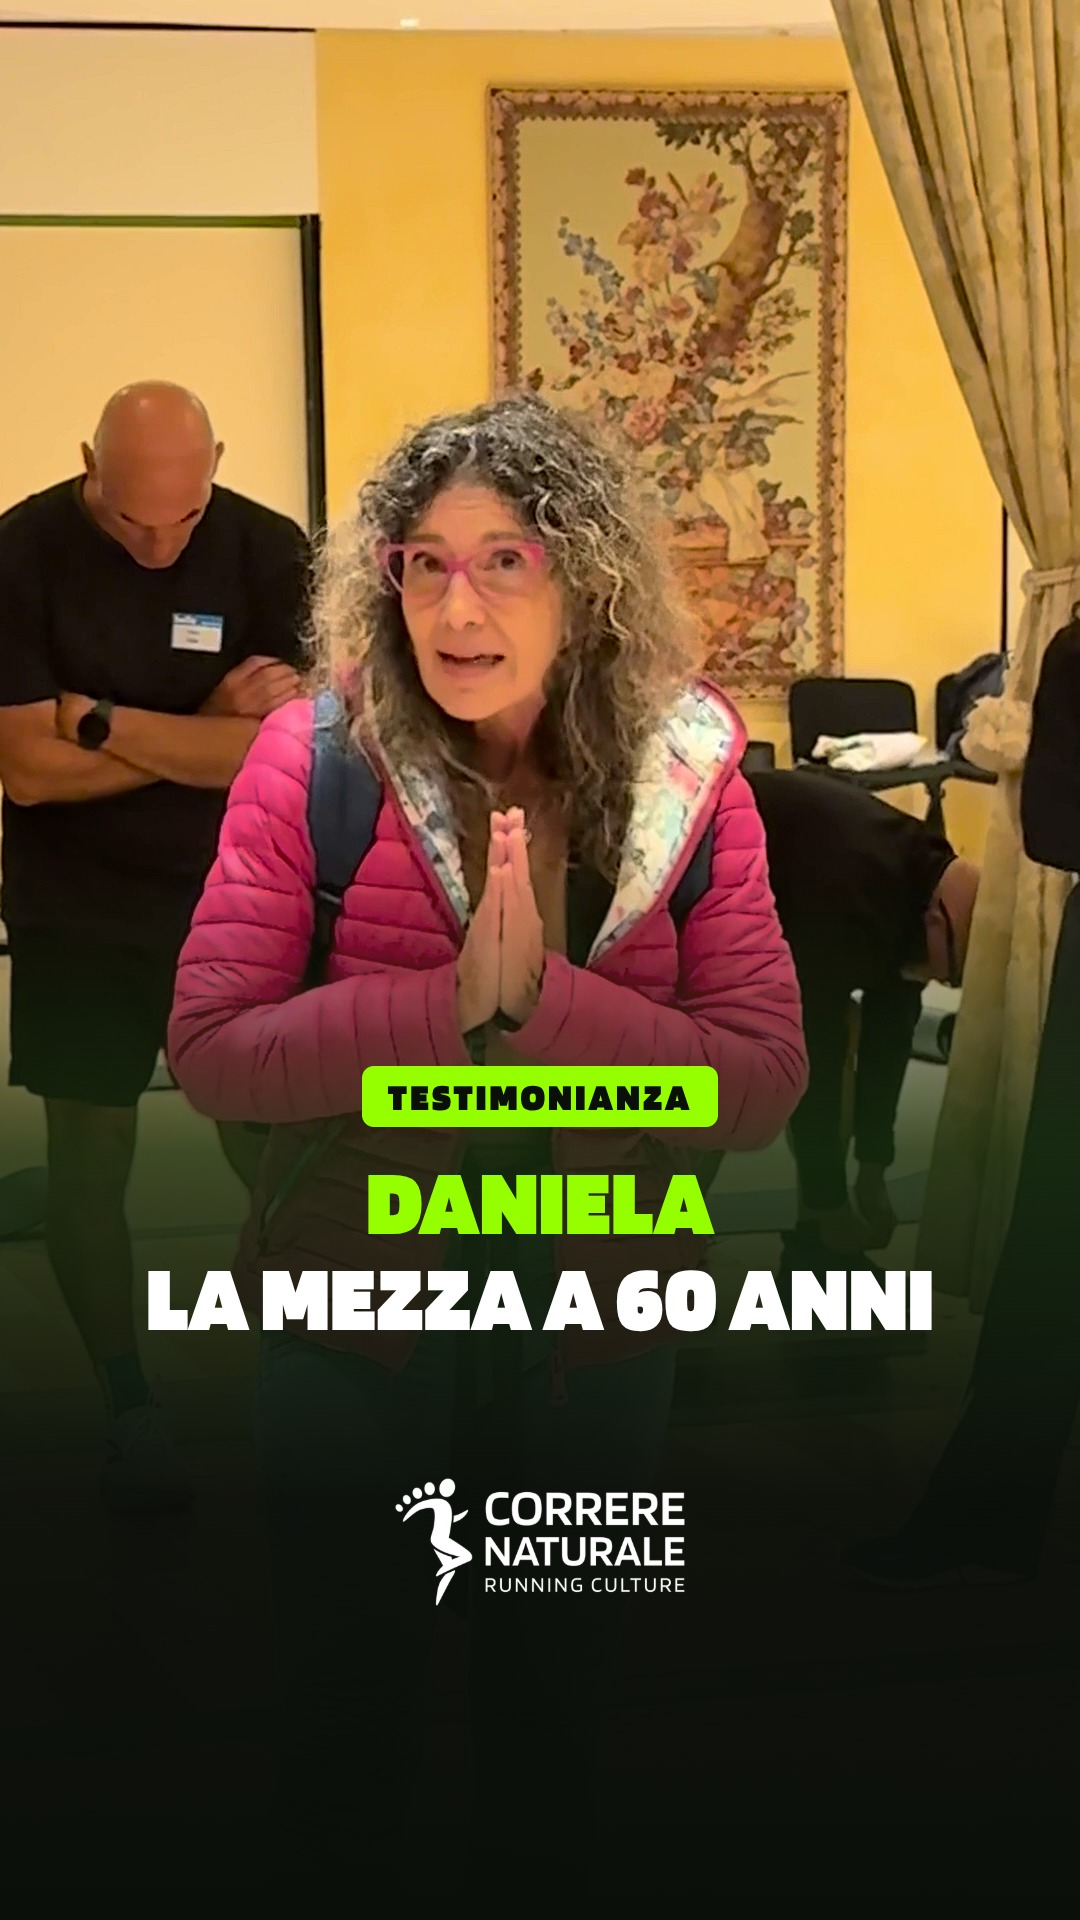
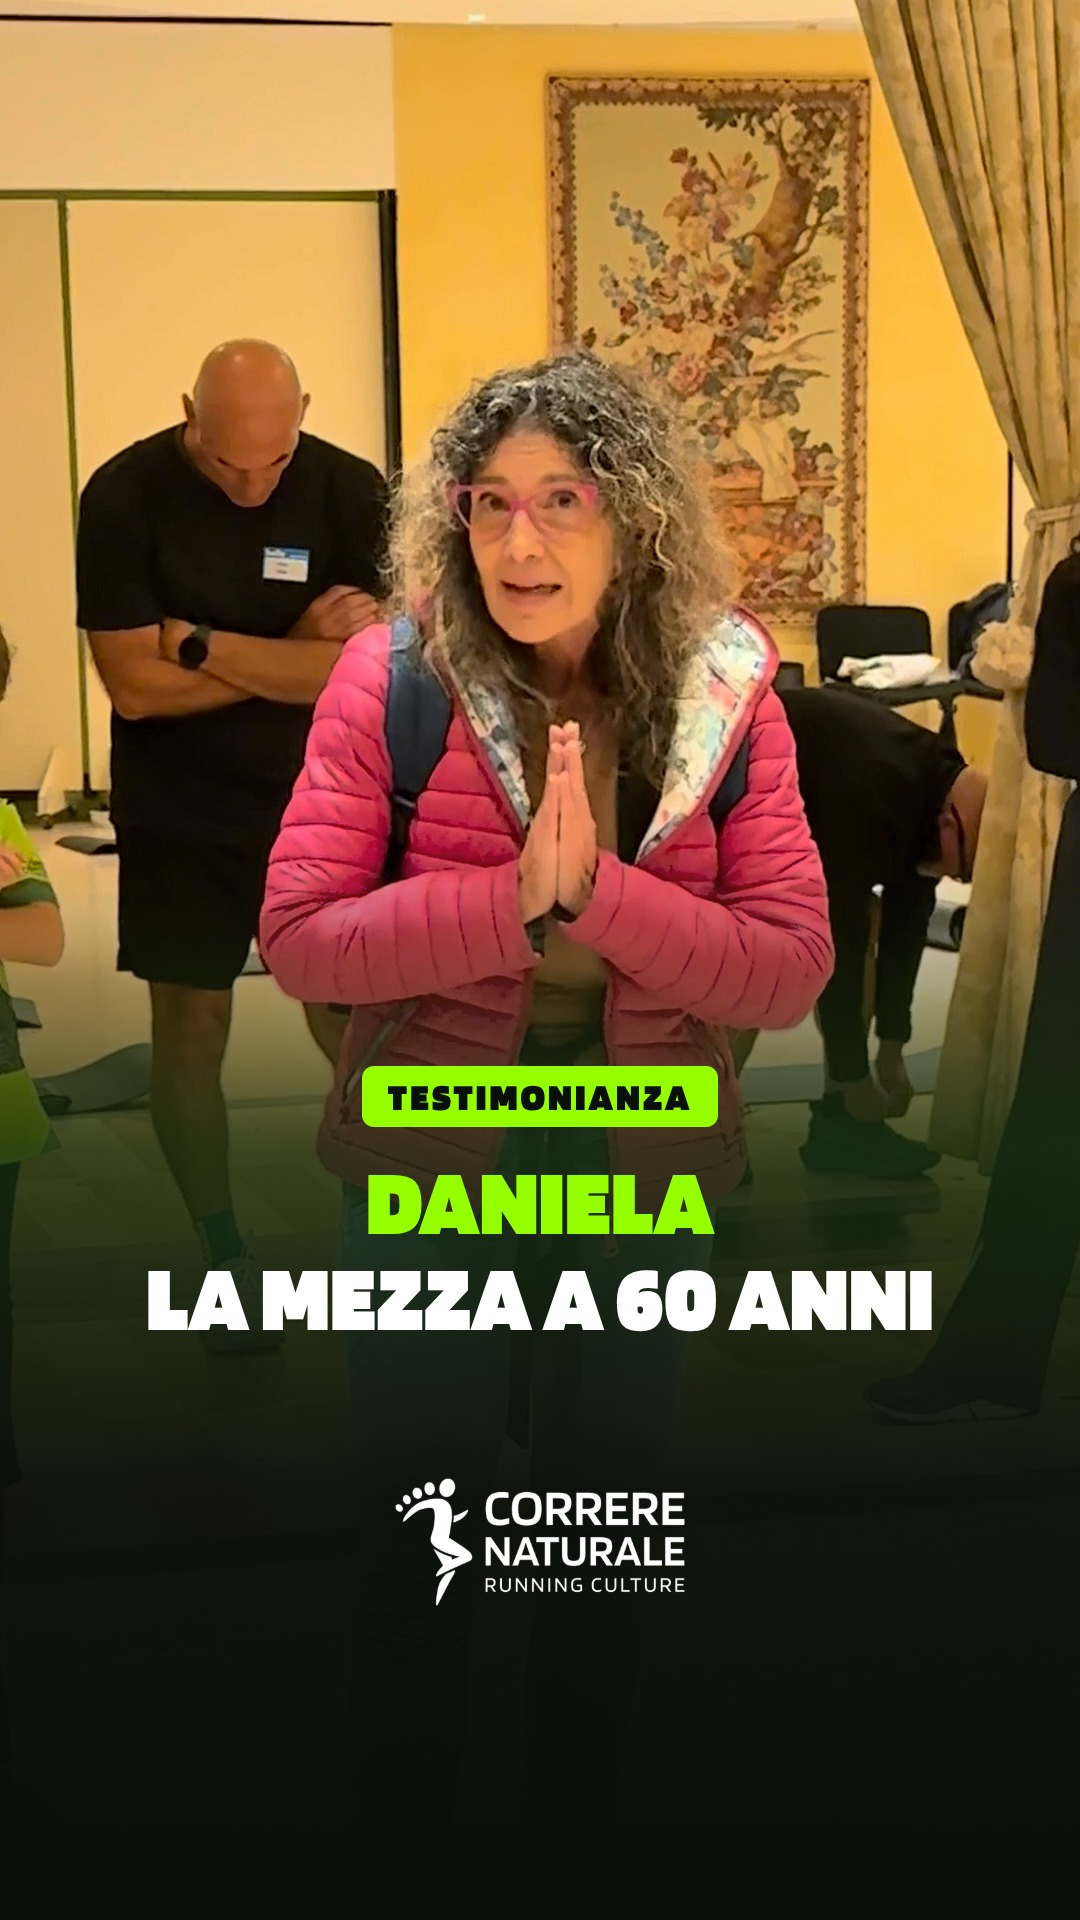
Longevità v solo voce consegnati, Daniela v7; schede e copertina aggiornate
Claude-Session: https://claude.ai/code/session_01HGW3AnbhyvWpc9gyVEKzyj

diff --git a/clienti/correre-naturale/consegne/CLASSIFICA-SETTIMANALE.md b/clienti/correre-naturale/consegne/CLASSIFICA-SETTIMANALE.md
@@ -29,22 +29,22 @@ La corsa non è un test di resistenza: è un dialogo tra te e il tuo corpo, e qu
 
 ## Longevità · «Ho letto 5 studi sulla longevità» (rifatti l'11/11 al livello di YTCN 51 v11)
 
-**L1 ultimi 20 anni · Lunedì Scientifico · CTA PIANO** (v3, 12/11: musica anche sotto la CTA)
+**L1 ultimi 20 anni · Lunedì Scientifico · CTA PIANO** (v4, 14/11: solo voce, senza musica di sottofondo)
 La medicina moderna ci ha regalato 30 anni di vita in più, ma ce li ha messi tutti alla fine. Due numeri definiscono la tua vita: il lifespan, quanti anni vivi, e l'healthspan, quanti anni vivi bene. In Italia l'aspettativa di vita è circa 83 anni, quella in salute si ferma intorno ai 60: in media gli ultimi 20 anni si passano in declino, due decenni in cui il corpo si spegne. La domanda vera non è quanto a lungo vivo, ma a che punto il mio corpo smetterà di funzionare come dovrebbe. Chiusura: non si smette di correre perché si invecchia, si invecchia perché si smette di correre.
 
-**L2 nessun farmaco · Lunedì Scientifico · CTA MOTORE** (v2, 12/11: musica anche sotto la CTA)
+**L2 nessun farmaco · Lunedì Scientifico · CTA MOTORE** (v3, 14/11: solo voce, senza musica di sottofondo)
 Il segnale più potente che esista per la longevità è il movimento aerobico. Una meta-analisi su 100.000 persone sane (Kodama et al., 2009, JAMA): ogni piccolo incremento del motore aerobico abbassa del 13% il rischio di morire per qualsiasi causa e del 15% quello di un evento cardiovascolare; non esiste farmaco al mondo con questo effetto. Quanto serve correre: uno studio americano su oltre 155.000 adulti seguiti per 15 anni (Lee et al., 2014, JACC) dice che bastano meno di 51 minuti a settimana, anche piano, per ridurre del 30% la mortalità per tutte le cause e del 45% quella cardiovascolare. Chiusura: 10 minuti al giorno, non una maratona; è tenere accesa la macchina biologica che sposta l'ago.
 
-**L3 cellule · Martedì Educativo · CTA RINNOVO** (v2, 12/11: musica anche sotto la CTA)
+**L3 cellule · Martedì Educativo · CTA RINNOVO** (v3, 14/11: solo voce, senza musica di sottofondo)
 Cosa succede dentro le tue cellule quando corri. I mitocondri sono le centrali energetiche: trasformano ossigeno e nutrienti in ATP, la moneta con cui il corpo paga ogni battito, ogni pensiero, ogni passo. Quando funzionano bene il corpo si ripara, si rinnova, resta giovane; quando funzionano male il sistema decade: l'invecchiamento non è il tempo che passa, sono le centrali che smettono di fare il loro lavoro. Ma i mitocondri non sono statici, rispondono ai segnali: movimento aerobico, respirazione nasale e intensità controllata ne producono di più e più efficienti, e attivano la mitofagia, che sostituisce quelli vecchi e malfunzionanti con nuovi. Chiusura: è il 90% del valore della corsa che quasi nessuno conosce; ma attento, devi correre bene.
 
-**L4 cervello · Lunedì Scientifico · CTA CAMMINA** (v2, 12/11: musica anche sotto la CTA)
+**L4 cervello · Lunedì Scientifico · CTA CAMMINA** (v3, 14/11: solo voce, senza musica di sottofondo)
 Il cervello si è coevoluto con il movimento: non può funzionare correttamente senza un corpo in movimento. Lo studio (Erickson et al., 2011, PNAS): 120 anziani sedentari, metà ha camminato tre volte a settimana per un anno partendo da 10 minuti fino ad arrivare a 40, l'altra metà ha fatto solo stretching leggero; risonanza magnetica dell'ippocampo prima e dopo. Risultato: in chi ha camminato l'ippocampo è cresciuto del 2%, nel gruppo di controllo è diminuito; chi si è mosso ha fatto tornare indietro l'orologio del cervello. Chiusura: motore, muscoli, tendini e cervello sono i quattro capitoli di un'unica storia, e quando ti muovi correttamente ogni pezzo amplifica gli altri.
 
-**L5 bugia del running · Mercoledì Problem/Solution · CTA TECNICA** (v3, 12/11: musica anche sotto la CTA)
+**L5 bugia del running · Mercoledì Problem/Solution · CTA TECNICA** (v4, 14/11: solo voce, senza musica di sottofondo)
 Il problema: «basta uscire a correre» è la bugia più diffusa nel mondo del running. Se corri male, con un corpo non pronto e senza saperti allenare, la questione non è se ti farai male ma quando: troppo forte, a bocca aperta, col fiatone, stai stressando un sistema che non è pronto. La risposta: il naso come limitatore naturale; se mentre corri non riesci a respirare solo dal naso stai andando troppo forte, e rallentare o camminare non è debolezza, è intelligenza biologica. Chiusura: il principio cardine del metodo Correre Naturale, non correre di più o più veloce ma mandare al corpo i segnali giusti, con la tecnica corretta, un corpo preparato e un'intensità che il tuo sistema può gestire; il resto è una conseguenza.
 
-**L6 tre cose da domani · Giovedì Pratico · CTA DOMANI** (v3, 12/11: musica anche sotto la CTA)
+**L6 tre cose da domani · Giovedì Pratico · CTA DOMANI** (v4, 14/11: solo voce, senza musica di sottofondo)
 Apertura di contesto: non si smette di correre perché si invecchia, si invecchia perché si smette di correre e di muoversi. Quindi, cosa puoi fare da domani? Tre cose. Uno: esci e cammina almeno 10 minuti respirando solo dal naso, meglio dopo pranzo; sembra poco, ma è un segnale potentissimo che accende il motore aerobico e mette al lavoro i mitocondri. Due: se già cammini, inserisci qualche minuto di corsa facile, dove facile vuol dire che respirare dal naso basta; se il naso non basta torni a camminare, senza fretta e senza ascoltare l'ego. Tre: lo squat completo, talloni a terra, per 30 secondi; se non ci riesci senza dolore hai appena trovato il tuo primo esercizio di manutenzione quotidiana. Chiusura: nel metodo Correre Naturale lo squat è uno dei gesti più potenti per rimettere in funzione il corpo.
 
 ## YTCN 38 · efficienza e flessibilità metabolica (9 reel)
@@ -84,7 +84,7 @@ Una giornata di workshop a Vicenza (24 ottobre) in un minuto: check-in, lezione 
 **VLOG workshop lungo · Venerdì Conversione · CTA WORKSHOP**
 Stessa giornata raccontata per esteso, dalle 9:30 alle 18:30: tutto quello che Correre Naturale insegna online, provato sul corpo, insieme.
 
-**D1 Daniela · Venerdì Conversione · CTA PERCORSO** (v2, 9/11)
+**D1 Daniela · Venerdì Conversione · CTA PERCORSO** (v7, 14/11: stacchi netti, inquadratura agganciata al volto; in attesa del sì di Oscar)
 Testimonianza reale dal workshop di Vicenza. Daniela stava sul divano e non aveva mai corso; ha iniziato con Correre Naturale per dimagrire («mi ha miracolato»). Il «secondo miracolo»: grazie alla filosofia della cura del proprio corpo ha fatto gli esami, ha scoperto in tempo un brutto male all'intestino, dopo tre settimane era di nuovo a correre senza chemio. Chiusura sul numero: nella mezza maratona la Daniela di 60 anni batte quella di 50 di oltre 20 minuti. Sorgente: IMG_0650 (telefono di Paola), nessun video YouTube.
 
 ## Testimonianze (cartella Drive «Testimonianze CN»)

diff --git a/clienti/correre-naturale/consegne/SCHEDE-TUTTI-I-VIDEO.md b/clienti/correre-naturale/consegne/SCHEDE-TUTTI-I-VIDEO.md
@@ -24,22 +24,22 @@ La corsa non è un test di resistenza: è un dialogo tra te e il tuo corpo, e qu
 
 ## Longevità · «Ho letto 5 studi sulla longevità» (rifatti l'11/11 al livello di YTCN 51 v11)
 
-**L1 ultimi 20 anni · Lunedì Scientifico · CTA PIANO** (v3, 12/11: musica anche sotto la CTA)
+**L1 ultimi 20 anni · Lunedì Scientifico · CTA PIANO** (v4, 14/11: solo voce, senza musica di sottofondo)
 La medicina moderna ci ha regalato 30 anni di vita in più, ma ce li ha messi tutti alla fine. Due numeri definiscono la tua vita: il lifespan, quanti anni vivi, e l'healthspan, quanti anni vivi bene. In Italia l'aspettativa di vita è circa 83 anni, quella in salute si ferma intorno ai 60: in media gli ultimi 20 anni si passano in declino, due decenni in cui il corpo si spegne. La domanda vera non è quanto a lungo vivo, ma a che punto il mio corpo smetterà di funzionare come dovrebbe. Chiusura: non si smette di correre perché si invecchia, si invecchia perché si smette di correre.
 
-**L2 nessun farmaco · Lunedì Scientifico · CTA MOTORE** (v2, 12/11: musica anche sotto la CTA)
+**L2 nessun farmaco · Lunedì Scientifico · CTA MOTORE** (v3, 14/11: solo voce, senza musica di sottofondo)
 Il segnale più potente che esista per la longevità è il movimento aerobico. Una meta-analisi su 100.000 persone sane (Kodama et al., 2009, JAMA): ogni piccolo incremento del motore aerobico abbassa del 13% il rischio di morire per qualsiasi causa e del 15% quello di un evento cardiovascolare; non esiste farmaco al mondo con questo effetto. Quanto serve correre: uno studio americano su oltre 155.000 adulti seguiti per 15 anni (Lee et al., 2014, JACC) dice che bastano meno di 51 minuti a settimana, anche piano, per ridurre del 30% la mortalità per tutte le cause e del 45% quella cardiovascolare. Chiusura: 10 minuti al giorno, non una maratona; è tenere accesa la macchina biologica che sposta l'ago.
 
-**L3 cellule · Martedì Educativo · CTA RINNOVO** (v2, 12/11: musica anche sotto la CTA)
+**L3 cellule · Martedì Educativo · CTA RINNOVO** (v3, 14/11: solo voce, senza musica di sottofondo)
 Cosa succede dentro le tue cellule quando corri. I mitocondri sono le centrali energetiche: trasformano ossigeno e nutrienti in ATP, la moneta con cui il corpo paga ogni battito, ogni pensiero, ogni passo. Quando funzionano bene il corpo si ripara, si rinnova, resta giovane; quando funzionano male il sistema decade: l'invecchiamento non è il tempo che passa, sono le centrali che smettono di fare il loro lavoro. Ma i mitocondri non sono statici, rispondono ai segnali: movimento aerobico, respirazione nasale e intensità controllata ne producono di più e più efficienti, e attivano la mitofagia, che sostituisce quelli vecchi e malfunzionanti con nuovi. Chiusura: è il 90% del valore della corsa che quasi nessuno conosce; ma attento, devi correre bene.
 
-**L4 cervello · Lunedì Scientifico · CTA CAMMINA** (v2, 12/11: musica anche sotto la CTA)
+**L4 cervello · Lunedì Scientifico · CTA CAMMINA** (v3, 14/11: solo voce, senza musica di sottofondo)
 Il cervello si è coevoluto con il movimento: non può funzionare correttamente senza un corpo in movimento. Lo studio (Erickson et al., 2011, PNAS): 120 anziani sedentari, metà ha camminato tre volte a settimana per un anno partendo da 10 minuti fino ad arrivare a 40, l'altra metà ha fatto solo stretching leggero; risonanza magnetica dell'ippocampo prima e dopo. Risultato: in chi ha camminato l'ippocampo è cresciuto del 2%, nel gruppo di controllo è diminuito; chi si è mosso ha fatto tornare indietro l'orologio del cervello. Chiusura: motore, muscoli, tendini e cervello sono i quattro capitoli di un'unica storia, e quando ti muovi correttamente ogni pezzo amplifica gli altri.
 
-**L5 bugia del running · Mercoledì Problem/Solution · CTA TECNICA** (v3, 12/11: musica anche sotto la CTA)
+**L5 bugia del running · Mercoledì Problem/Solution · CTA TECNICA** (v4, 14/11: solo voce, senza musica di sottofondo)
 Il problema: «basta uscire a correre» è la bugia più diffusa nel mondo del running. Se corri male, con un corpo non pronto e senza saperti allenare, la questione non è se ti farai male ma quando: troppo forte, a bocca aperta, col fiatone, stai stressando un sistema che non è pronto. La risposta: il naso come limitatore naturale; se mentre corri non riesci a respirare solo dal naso stai andando troppo forte, e rallentare o camminare non è debolezza, è intelligenza biologica. Chiusura: il principio cardine del metodo Correre Naturale, non correre di più o più veloce ma mandare al corpo i segnali giusti, con la tecnica corretta, un corpo preparato e un'intensità che il tuo sistema può gestire; il resto è una conseguenza.
 
-**L6 tre cose da domani · Giovedì Pratico · CTA DOMANI** (v3, 12/11: musica anche sotto la CTA)
+**L6 tre cose da domani · Giovedì Pratico · CTA DOMANI** (v4, 14/11: solo voce, senza musica di sottofondo)
 Apertura di contesto: non si smette di correre perché si invecchia, si invecchia perché si smette di correre e di muoversi. Quindi, cosa puoi fare da domani? Tre cose. Uno: esci e cammina almeno 10 minuti respirando solo dal naso, meglio dopo pranzo; sembra poco, ma è un segnale potentissimo che accende il motore aerobico e mette al lavoro i mitocondri. Due: se già cammini, inserisci qualche minuto di corsa facile, dove facile vuol dire che respirare dal naso basta; se il naso non basta torni a camminare, senza fretta e senza ascoltare l'ego. Tre: lo squat completo, talloni a terra, per 30 secondi; se non ci riesci senza dolore hai appena trovato il tuo primo esercizio di manutenzione quotidiana. Chiusura: nel metodo Correre Naturale lo squat è uno dei gesti più potenti per rimettere in funzione il corpo.
 
 ## YTCN 38 · efficienza e flessibilità metabolica (9 reel)
@@ -79,7 +79,7 @@ Una giornata di workshop a Vicenza (24 ottobre) in un minuto: check-in, lezione 
 **VLOG workshop lungo · Venerdì Conversione · CTA WORKSHOP**
 Stessa giornata raccontata per esteso, dalle 9:30 alle 18:30: tutto quello che Correre Naturale insegna online, provato sul corpo, insieme.
 
-**D1 Daniela · Venerdì Conversione · CTA PERCORSO** (v2, 9/11)
+**D1 Daniela · Venerdì Conversione · CTA PERCORSO** (v7, 14/11: stacchi netti, inquadratura agganciata al volto; in attesa del sì di Oscar)
 Testimonianza reale dal workshop di Vicenza. Daniela stava sul divano e non aveva mai corso; ha iniziato con Correre Naturale per dimagrire («mi ha miracolato»). Il «secondo miracolo»: grazie alla filosofia della cura del proprio corpo ha fatto gli esami, ha scoperto in tempo un brutto male all'intestino, dopo tre settimane era di nuovo a correre senza chemio. Chiusura sul numero: nella mezza maratona la Daniela di 60 anni batte quella di 50 di oltre 20 minuti. Sorgente: IMG_0650 (telefono di Paola), nessun video YouTube.
 
 ## Testimonianze (cartella Drive «Testimonianze CN»)

diff --git a/clienti/correre-naturale/consegne/longevita/SCHEDE.md b/clienti/correre-naturale/consegne/longevita/SCHEDE.md
@@ -1,23 +1,23 @@
 # Schede dei reel · serie Longevità
 
-Formato fisso delle schede (vedi `memoria/feedback-formato-schede.md`). File in `video-engine/out/ytcn51/consegna/` (`L1-ventanni_v3`, `L2-farmaco_v2`, `L3-cellule_v2`, `L4-cervello_v2`, `L5-bugia_v3`, `L6-domani_v3`: versioni con la musica anche sotto la CTA).
+Formato fisso delle schede (vedi `memoria/feedback-formato-schede.md`). File in `video-engine/out/ytcn51/consegna/` (`L1-ventanni_v4`, `L2-farmaco_v3`, `L3-cellule_v3`, `L4-cervello_v3`, `L5-bugia_v4`, `L6-domani_v4`: solo la voce di Daniele, la musica la aggiungono su Edits).
 
 ## Longevità · «Ho letto 5 studi sulla longevità» (rifatti l'11/11 al livello di YTCN 51 v11)
 
-**L1 ultimi 20 anni · Lunedì Scientifico · CTA PIANO** (v3, 12/11: musica anche sotto la CTA)
+**L1 ultimi 20 anni · Lunedì Scientifico · CTA PIANO** (v4, 14/11: solo voce, senza musica di sottofondo)
 La medicina moderna ci ha regalato 30 anni di vita in più, ma ce li ha messi tutti alla fine. Due numeri definiscono la tua vita: il lifespan, quanti anni vivi, e l'healthspan, quanti anni vivi bene. In Italia l'aspettativa di vita è circa 83 anni, quella in salute si ferma intorno ai 60: in media gli ultimi 20 anni si passano in declino, due decenni in cui il corpo si spegne. La domanda vera non è quanto a lungo vivo, ma a che punto il mio corpo smetterà di funzionare come dovrebbe. Chiusura: non si smette di correre perché si invecchia, si invecchia perché si smette di correre.
 
-**L2 nessun farmaco · Lunedì Scientifico · CTA MOTORE** (v2, 12/11: musica anche sotto la CTA)
+**L2 nessun farmaco · Lunedì Scientifico · CTA MOTORE** (v3, 14/11: solo voce, senza musica di sottofondo)
 Il segnale più potente che esista per la longevità è il movimento aerobico. Una meta-analisi su 100.000 persone sane (Kodama et al., 2009, JAMA): ogni piccolo incremento del motore aerobico abbassa del 13% il rischio di morire per qualsiasi causa e del 15% quello di un evento cardiovascolare; non esiste farmaco al mondo con questo effetto. Quanto serve correre: uno studio americano su oltre 155.000 adulti seguiti per 15 anni (Lee et al., 2014, JACC) dice che bastano meno di 51 minuti a settimana, anche piano, per ridurre del 30% la mortalità per tutte le cause e del 45% quella cardiovascolare. Chiusura: 10 minuti al giorno, non una maratona; è tenere accesa la macchina biologica che sposta l'ago.
 
-**L3 cellule · Martedì Educativo · CTA RINNOVO** (v2, 12/11: musica anche sotto la CTA)
+**L3 cellule · Martedì Educativo · CTA RINNOVO** (v3, 14/11: solo voce, senza musica di sottofondo)
 Cosa succede dentro le tue cellule quando corri. I mitocondri sono le centrali energetiche: trasformano ossigeno e nutrienti in ATP, la moneta con cui il corpo paga ogni battito, ogni pensiero, ogni passo. Quando funzionano bene il corpo si ripara, si rinnova, resta giovane; quando funzionano male il sistema decade: l'invecchiamento non è il tempo che passa, sono le centrali che smettono di fare il loro lavoro. Ma i mitocondri non sono statici, rispondono ai segnali: movimento aerobico, respirazione nasale e intensità controllata ne producono di più e più efficienti, e attivano la mitofagia, che sostituisce quelli vecchi e malfunzionanti con nuovi. Chiusura: è il 90% del valore della corsa che quasi nessuno conosce; ma attento, devi correre bene.
 
-**L4 cervello · Lunedì Scientifico · CTA CAMMINA** (v2, 12/11: musica anche sotto la CTA)
+**L4 cervello · Lunedì Scientifico · CTA CAMMINA** (v3, 14/11: solo voce, senza musica di sottofondo)
 Il cervello si è coevoluto con il movimento: non può funzionare correttamente senza un corpo in movimento. Lo studio (Erickson et al., 2011, PNAS): 120 anziani sedentari, metà ha camminato tre volte a settimana per un anno partendo da 10 minuti fino ad arrivare a 40, l'altra metà ha fatto solo stretching leggero; risonanza magnetica dell'ippocampo prima e dopo. Risultato: in chi ha camminato l'ippocampo è cresciuto del 2%, nel gruppo di controllo è diminuito; chi si è mosso ha fatto tornare indietro l'orologio del cervello. Chiusura: motore, muscoli, tendini e cervello sono i quattro capitoli di un'unica storia, e quando ti muovi correttamente ogni pezzo amplifica gli altri.
 
-**L5 bugia del running · Mercoledì Problem/Solution · CTA TECNICA** (v3, 12/11: musica anche sotto la CTA)
+**L5 bugia del running · Mercoledì Problem/Solution · CTA TECNICA** (v4, 14/11: solo voce, senza musica di sottofondo)
 Il problema: «basta uscire a correre» è la bugia più diffusa nel mondo del running. Se corri male, con un corpo non pronto e senza saperti allenare, la questione non è se ti farai male ma quando: troppo forte, a bocca aperta, col fiatone, stai stressando un sistema che non è pronto. La risposta: il naso come limitatore naturale; se mentre corri non riesci a respirare solo dal naso stai andando troppo forte, e rallentare o camminare non è debolezza, è intelligenza biologica. Chiusura: il principio cardine del metodo Correre Naturale, non correre di più o più veloce ma mandare al corpo i segnali giusti, con la tecnica corretta, un corpo preparato e un'intensità che il tuo sistema può gestire; il resto è una conseguenza.
 
-**L6 tre cose da domani · Giovedì Pratico · CTA DOMANI** (v3, 12/11: musica anche sotto la CTA)
+**L6 tre cose da domani · Giovedì Pratico · CTA DOMANI** (v4, 14/11: solo voce, senza musica di sottofondo)
 Tre cose da fare da domani. Uno: esci e cammina almeno 10 minuti respirando solo dal naso, meglio dopo pranzo; sembra poco, ma è un segnale potentissimo che accende il motore aerobico e mette al lavoro i mitocondri. Due: se già cammini, inserisci qualche minuto di corsa facile, dove facile vuol dire che respirare dal naso basta; se il naso non basta torni a camminare, senza fretta e senza ascoltare l'ego. Tre: lo squat completo, talloni a terra, per 30 secondi; se non ci riesci senza dolore hai appena trovato il tuo primo esercizio di manutenzione quotidiana. Chiusura: nel metodo Correre Naturale lo squat è uno dei gesti più potenti per rimettere in funzione il corpo.
